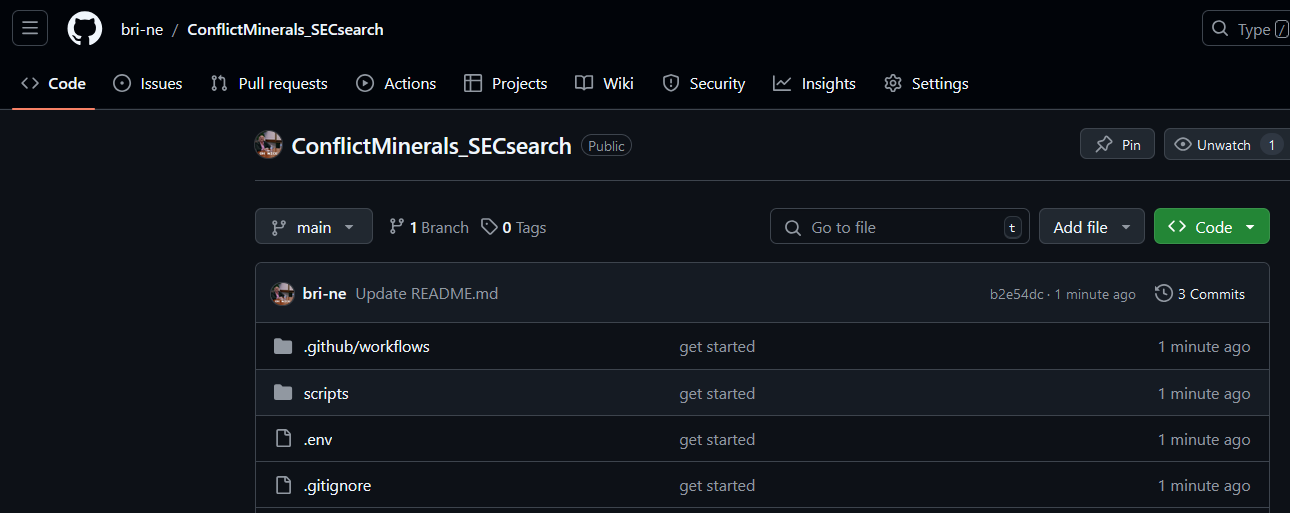
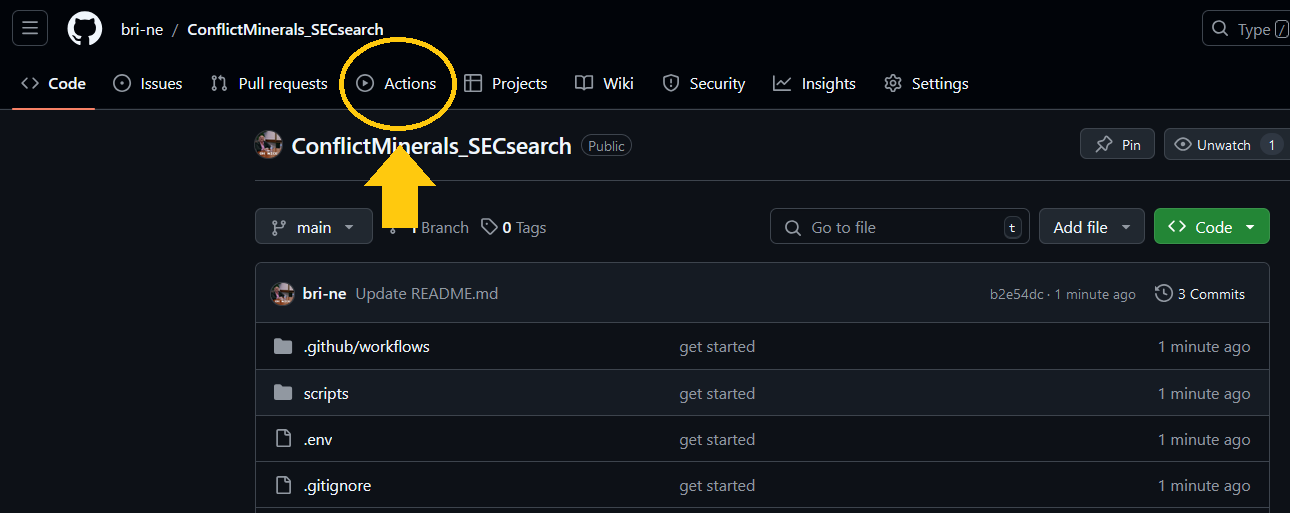
screenshots

diff --git a/README.md b/README.md
@@ -8,8 +8,16 @@ Use this tool to investigate corporations' use of conflict minerals by searching
   * **be sure to format as an array of strings, e.g `["Company A", "Company B", "Company C"]`**
 * Run as Github Action
   * On the menu bar click "Actions" 
-  * Click "Run workflow" button (look to the right in the workflow table for the button)
+    * ![screenshot showing the menu bar, with the actions button circled](.images/ss_1.png)
+  * Click on the workflow name `py`
+    * ![screenshot showing workflowname](.images/ss_2.png)
+  * Then, click "Run workflow" button (look to the right in the workflow table for the button)
+    * ![screenshot showing run workflow button](.images/ss_3.png)
+* Navigate back to the main repo to find the output file (`output.csv`)
+  * ![screenshot showing repo with output file circled](.images/ss_4.png)
+  * click it, and then download
+    * ![screenshot showing file download button](.images/ss_5.png)
 
 ## Helpful links 
 
-* This repo relies on the Securities and Exchange Commission's [EDGAR Database API](https://www.sec.gov/search-filings/edgar-search-assistance/accessing-edgar-data)
+* This repo relies on the Securities and Exchange Commission's [EDGAR Database Full Text Search API](https://sec-api.io/docs/full-text-search-api)
